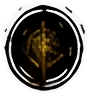
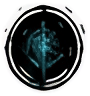
Mana is icy cyan: the bar, its orb and every mana cost (#63)
Owner, 2026-10-27: gold means combos only. The mana bar fill, frame trim and the three
upper orbs are recoloured from gold to icy cyan (the low-mana orb keeps its red rim).
Mana costs on spell buttons and pick cards are icy cyan (SpellTags.MANA_COLOR); passives
keep gold, Cleanse/Purify violet. Docs: game-design.md colour table, art.md, art list, roadmap.

Closes #63

Claude-Session: https://claude.ai/code/session_01HpbEV4J6RjW6nAArF23fYk

diff --git a/docs/game-design.md b/docs/game-design.md
@@ -94,10 +94,12 @@ system has to make a new spell easy to add: numbers and effects, not new code.
 | Electric blue | Shields |
 | Gold | Combos and powerful effects: a gold flash always means a combo fired |
 | Blood red | Danger: bursts, warnings, wounds (and Bleed: heal it) |
+| Icy cyan | Mana: the bar, the orb, spell costs [Decided 2026-10-27] |
 | Violet | Debuffs you can Cleanse (Poison, Hex, Dread) and the Cleanse ability [Decided 2026-10-25, can change later] |
 
-- **Gold means combos only [Decided 2026-10-22].** Today the mana bar is also gold. It will
-  move to another colour in Phase G (see Planned features).
+- **Gold means combos only [Decided 2026-10-22].** Gold is combos, powerful effects and
+  your passive tray. **Mana is icy cyan** [Decided 2026-10-27]: the mana bar, its orb and every
+  mana cost on spell buttons and cards (the orb turns red-rimmed when you're low).
 - **Fonts:** Pirata One (titles), Oswald (UI), Special Elite (Pythio's speech), DejaVu
   (symbols). Files: `assets/fonts/`. The Phase H pass may change these.
 - **Art:** stand-ins cut from a concept sheet. The style guide, file names and prompt pack
@@ -616,7 +618,7 @@ spell batch 2 (Mitigation tag, 4 new spells, 5 new passives). **[Decided 2026-10
 **Phase G: Readability and feel [Decided]**
 - Basic sound: casts, combos, bursts, death.
 - Swap in high-res art as it's made (`docs/art.md`).
-- Mana bar off gold, so gold only ever means combos (decided 2026-10-22).
+- ✅ Mana bar off gold: icy cyan (decided 2026-10-27, #63).
 
 **Phase H: Words, names and flair [Decided, owner-led]**
 - Marz goes through every on-screen line: fonts, spell names, descriptions, flavour.
@@ -691,6 +693,7 @@ Listed so nobody "fixes" the wrong side.
 | 2026-10-22 | Claude (for Marz) | First version, built from the live code and the docs after Phase C. Marz decided: one Next party screen (contract choice parked), gold = combos only, this doc wins over the other design docs, and pick pacing stays an open question. |
 | 2026-10-22 | Claude (for Marz) | Marz decided: the two player fantasies; combos = bread and butter, keystones = the big moments; picks every other round; 4 spell keys (Q–R); keystones after each Baron in their own 3 slots; Cleanse as its own basic ability, separate from the bandage. Phases reordered: D faster builds and more spells, E keystones, F debuffs and cleanse, G readability, H words. Proposed: swap/upgrade/skip when the bar is full, tag-weighted offers. |
 | 2026-10-24 | Claude (for Marz) | First-time practice round (Marz, after watching a new player): asked once per device after Take the Job; one knight, Heal only, three prompts, can't die, then the real run. Sections 3 and 11 updated. |
+| 2026-10-27 | Claude (for Marz) | Mana is icy cyan (Marz): the mana bar, its orb and spell costs; gold now only means combos, powerful effects and the passive tray. Section 2 and 12 updated. |
 | 2026-10-25 | Claude (for Marz) | Phase F: debuffs from round 6 (Poison, Bleed, Hex, Dread), shown above the fighter like "! INCOMING", violet = cleanse it; Cleanse on F (2 charges, Purify rank-up), Mend Wounds removes Poison, Purging Light and Clean Slate; bandages stop Bleed; new Cleanse tag and violet colour. Fixed the spell count (25 spells you cast with ranks, not 21). Sections 1, 2, 5, 6, 7, 8, 11, 12, 14 updated. |
 | 2026-10-25 | Claude (for Marz) | Phase E: Marz decided keystones and passives are one thing. Spell picks offer only spells; each Baron pays a passive (the Baron's bounty: no Skip, leaning to your tags; swaps or a spell pick when full). Six new data passives: Double Down, Wildgrowth, Shatterpoint, Harvest, Chain Reaction, Bastion. Sections 1, 3, 4, 5, 6, 9, 12 and 14 updated. |
 | 2026-10-24 | Claude (for Marz) | Marz thought Renew and Healing Plague didn't stack: they did, but the fighter only showed the longest heal-over-time. Now every one is listed. The timer flashes and pops in the last 5 seconds. Sections 3 and 11 updated. |

diff --git a/docs/art-assets.md b/docs/art-assets.md
@@ -72,7 +72,7 @@ exist, those two stay standing when they die.
 | `ui/bars/health_bar_fill.png` | The red fill inside a fighter's health bar. | Stand-in | match the frame |
 | `ui/bars/shield_bar_fill.png` | The blue strip over a fighter's health bar while they have a shield. | Stand-in | match the frame |
 | `ui/bars/mana_bar_under.png` | The frame of your mana bar (bottom centre). | Stand-in | 1024 wide |
-| `ui/bars/mana_bar_fill.png` | The fill of your mana bar. Gold today; moving off gold in Phase G (#63). | Stand-in | match the frame |
+| `ui/bars/mana_bar_fill.png` | The fill of your mana bar. Icy cyan since 2026-10-27 (#63; the stand-in was recoloured from gold). | Stand-in | match the frame |
 | `ui/bars/mana_orb_1.png` | The orb left of the mana bar when mana is **25% or less**. | Stand-in | 256 |
 | `ui/bars/mana_orb_2.png` | Mana **26–50%**. | Stand-in | 256 |
 | `ui/bars/mana_orb_3.png` | Mana **51–75%**. | Stand-in | 256 |
@@ -136,7 +136,7 @@ the frames listed below appear.
 | `vfx/heal/heal_burst_1.png`, `_2`, `_3`, `_5` · `vfx/heal/hot_circle_2.png` … `_5` · `vfx/heal/healing_particles.png` | Not shown (unused animation frames). | Spare | 256 per frame |
 | `vfx/shield/shield_loop_2.png` … `_5` · `shield_impact_1`, `_3`, `_4` · `shield_break_1.png` … `_5` | Not shown. `shield_break` would suit a shield **breaking**. | Spare | 256 per frame |
 | `vfx/danger/danger_telegraph_2.png` … `_5` · `blood_burst_2`, `_4` · `danger_spikes_1.png` … `_5` | Not shown. | Spare | 256 per frame |
-| `vfx/mana/mana_orb_flow_1.png` … `_6` · `vfx/mana/mana_sparkles_1.png` … `_5` | Not shown (no mana effects yet; they're gold, so they'd need recolouring for #63). | Spare | 256 per frame |
+| `vfx/mana/mana_orb_flow_1.png` … `_6` · `vfx/mana/mana_sparkles_1.png` … `_5` | Not shown (no mana effects yet; they're gold; mana is icy cyan since #63, so they'd need recolouring). | Spare | 256 per frame |
 
 ## Props
 

diff --git a/docs/art.md b/docs/art.md
@@ -23,7 +23,7 @@ drop a better PNG with **the same name** over the old one. No code change is nee
   - electric blue = shields
   - blood red = danger, bursts, wounds
   - gold = combos and powerful effects (a gold flash always means a combo)
-  - mana: not gold (moving to another colour in Phase G, #63)
+  - icy cyan = mana (the bar, the orb, costs; since 2026-10-27, #63)
   - The full colour language is in `docs/game-design.md` (section 2).
 - **Camera:** characters full-body, front three-quarter view. Pythio is seen **from behind**
   (the player looks over his shoulder at the party).

diff --git a/docs/roadmap.md b/docs/roadmap.md
@@ -175,7 +175,7 @@ One bullet ≈ one pull request.
 Done early: floating numbers, noir theme, online leaderboard (#12, #14).
 - ⬜ #33 **Basic sound:** casts, combos, bursts, death.
 - ⬜ #34 **Swap in high-res art** as it's generated (`docs/art.md`).
-- ⬜ #63 **Mana bar off gold,** so gold only ever means combos (owner, 2026-10-22).
+- ✅ #63 **Mana bar off gold:** icy cyan (owner, 2026-10-27) for the bar, the orb and costs.
 
 ### Phase H: Words, names and flair (owner-led)
 - ⬜ #61 **Fonts, spell names, descriptions and flavour:** the owner goes through all
